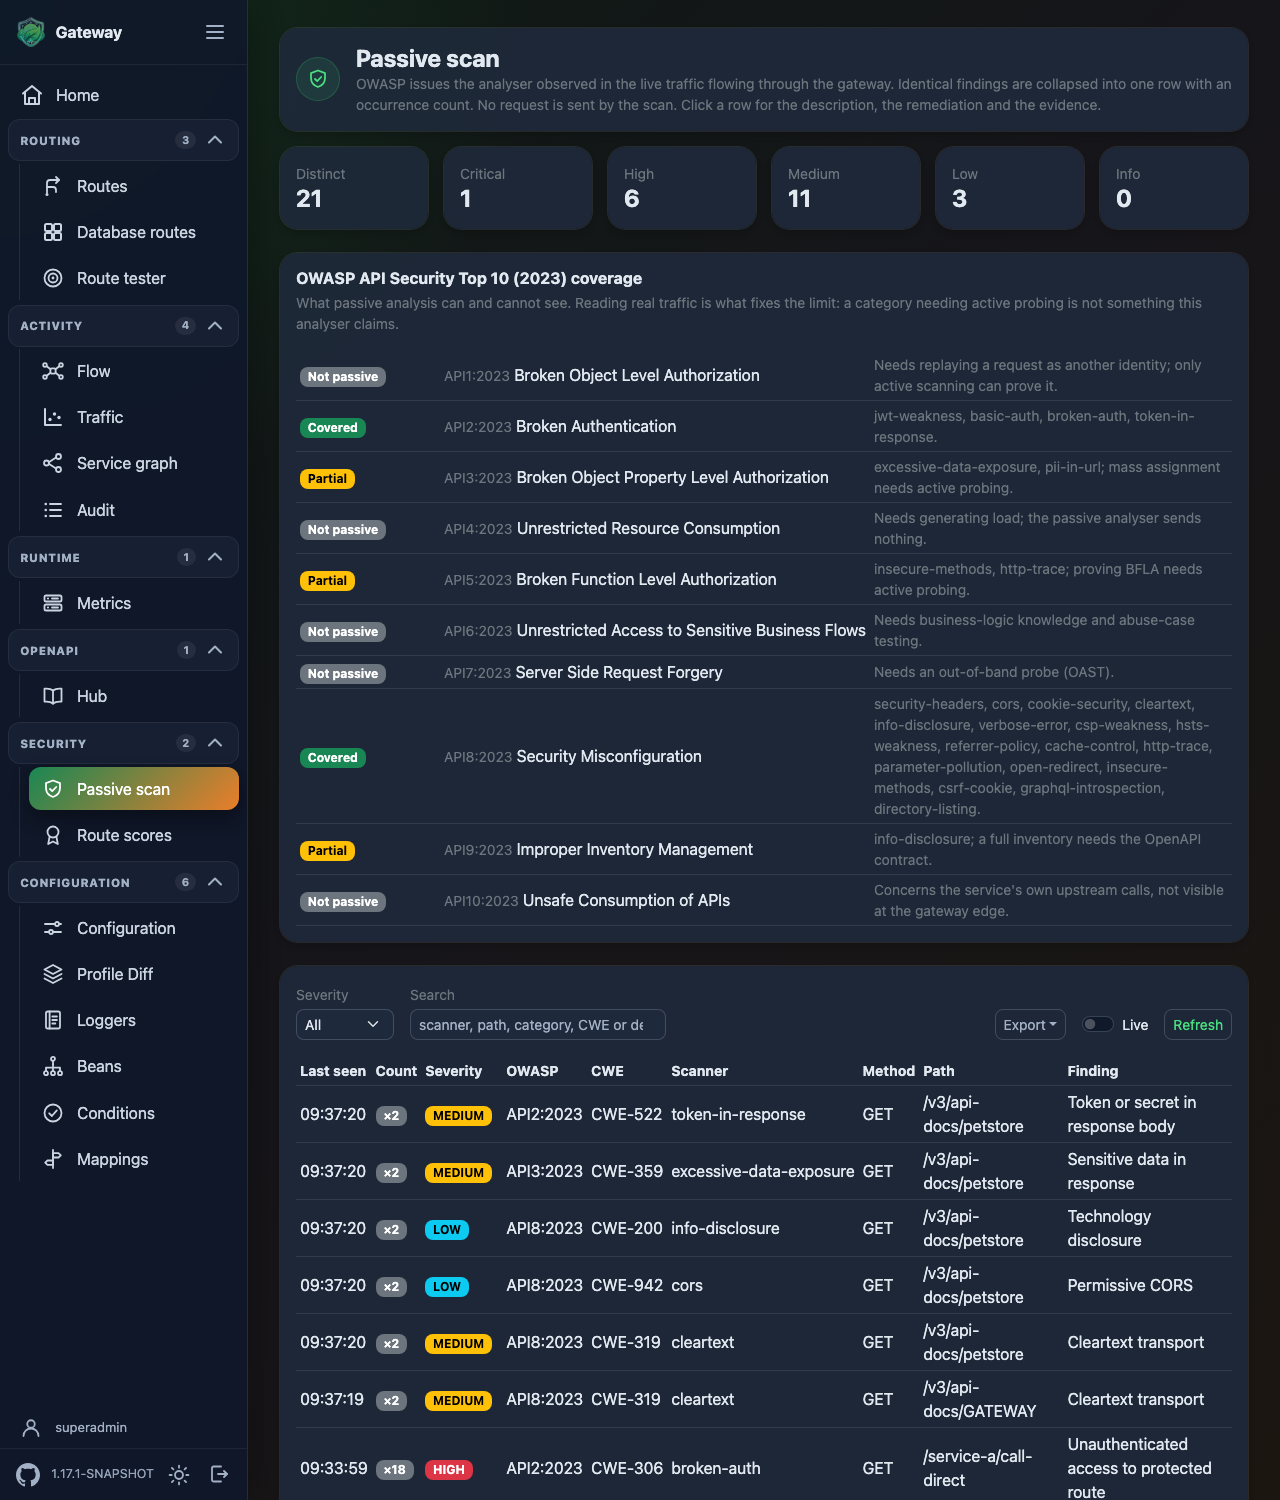
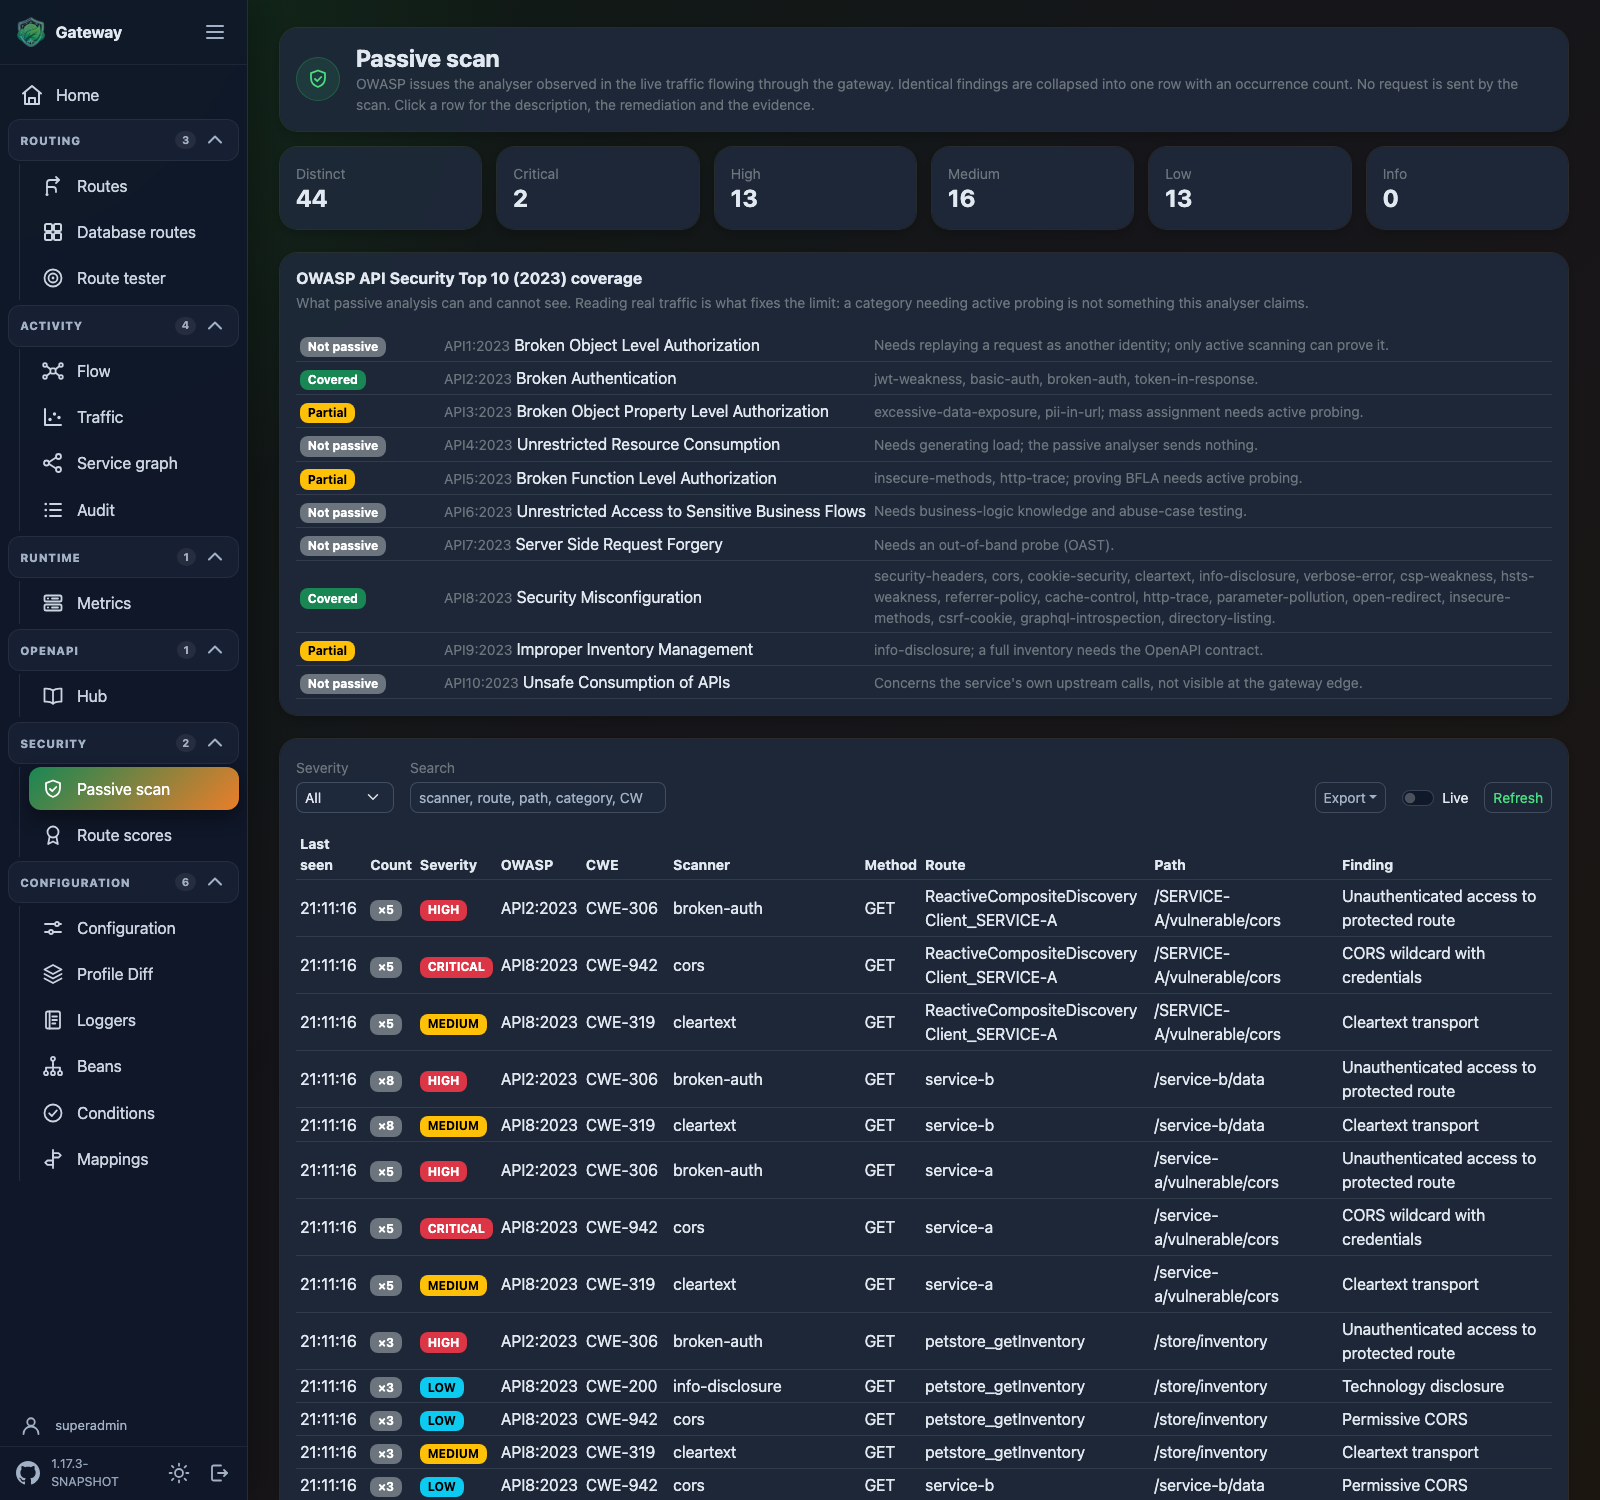
feat(ui): name the route a passive finding was raised on (#61)
The findings table gave the path and not the route, which is the column an
operator reads first: a path tells you where, a route tells you which
configuration to go and fix. The finding already carried the route id and the
JSON already served it -- only the view left it out. The search now matches it
too, so a route id typed into the filter finds its findings.

Showing it exposed that the aggregation could not tell two routes apart.
A finding names an endpoint rather than a request, so the path is reduced to
its template before being stored, and PathTemplate reads a segment of more
than 24 characters, or one carrying a digit and longer than 8, as a value.
On a gateway routing by service name those segments are the name:
/v3/api-docs/API-GATEWAY-INTERNAL-SERVICE and /v3/api-docs/CONFIGSERVER-3
both reduce to /v3/api-docs/{id}. Keyed on scanner, method, path and title,
three routes collapsed into one row whose route flipped from poll to poll,
and a search for one of them found nothing whenever another had been seen last.

The route id joins the signature. It costs nothing in cardinality -- it comes
from the gateway's own route table, never from the caller -- so the unbounded
keyspace the templating was there to prevent stays prevented. The Redis
merger and the in-memory store share the signature and follow; keyOf in the
view follows too, or two rows would share one expanded panel. Route scores
gain the same correction for free: a route whose findings collapsed into
[…]

diff --git a/spring-cloud-gateway-ui/src/main/resources/static/js/gateway-passive-scan.js b/spring-cloud-gateway-ui/src/main/resources/static/js/gateway-passive-scan.js
@@ -17,7 +17,7 @@
 	var LIMIT = 200;
 	var POLL_MS = 3000;
 	var SEVERITIES = ['CRITICAL', 'HIGH', 'MEDIUM', 'LOW', 'INFO'];
-	var COLSPAN = 9;
+	var COLSPAN = 10;
 	var pollTimer = null;
 	var expanded = {};
 
@@ -58,8 +58,10 @@
 		return td;
 	}
 
+	// The same fields the store groups on, so two routes reduced to the same path template
+	// keep an expanded panel of their own.
 	function keyOf(finding) {
-		return [finding.scanner, finding.method, finding.path, finding.title].join('|');
+		return [finding.scanner, finding.method, finding.routeId, finding.path, finding.title].join('|');
 	}
 
 	function section(parent, label, value) {
@@ -159,6 +161,7 @@
 			cell(row, finding.cwe, 'text-nowrap');
 			cell(row, finding.scanner, 'text-nowrap');
 			cell(row, finding.method);
+			cell(row, finding.routeId, 'text-break');
 			cell(row, finding.path, 'text-break');
 			cell(row, finding.title, 'text-break');
 

diff --git a/spring-cloud-gateway-ui/src/main/resources/templates/dashboard/passive-scan.html b/spring-cloud-gateway-ui/src/main/resources/templates/dashboard/passive-scan.html
@@ -58,7 +58,7 @@
 					<div>
 						<label class="form-label small text-secondary mb-1" for="ps-query">Search</label>
 						<input type="search" id="ps-query" class="form-control form-control-sm"
-								style="min-width: 16rem" placeholder="scanner, path, category, CWE or detail">
+								style="min-width: 16rem" placeholder="scanner, route, path, category, CWE or detail">
 					</div>
 					<div class="ms-auto d-flex align-items-center gap-3">
 						<div class="dropdown">
@@ -89,6 +89,7 @@
 								<th>CWE</th>
 								<th>Scanner</th>
 								<th>Method</th>
+								<th>Route</th>
 								<th>Path</th>
 								<th>Finding</th>
 							</tr>

diff --git a/spring-cloud-gateway-pentest/spring-cloud-gateway-pentest-core/src/test/java/ch/nexsol/gateway/pentest/core/store/InMemoryFindingStoreTests.java b/spring-cloud-gateway-pentest/spring-cloud-gateway-pentest-core/src/test/java/ch/nexsol/gateway/pentest/core/store/InMemoryFindingStoreTests.java
@@ -1,0 +1,74 @@
+/*
+ * Copyright 2025 the original author or authors.
+ *
+ * Licensed under the Apache License, Version 2.0 (the "License");
+ * you may not use this file except in compliance with the License.
+ * You may obtain a copy of the License at
+ *
+ *      https://www.apache.org/licenses/LICENSE-2.0
+ *
+ * Unless required by applicable law or agreed to in writing, software
+ * distributed under the License is distributed on an "AS IS" BASIS,
+ * WITHOUT WARRANTIES OR CONDITIONS OF ANY KIND, either express or implied.
+ * See the License for the specific language governing permissions and
+ * limitations under the License.
+ */
+
+package ch.nexsol.gateway.pentest.core.store;
+
+import java.time.Instant;
+import java.util.List;
+
+import ch.nexsol.gateway.pentest.core.model.AggregatedFinding;
+import ch.nexsol.gateway.pentest.core.model.Finding;
+import ch.nexsol.gateway.pentest.core.model.OwaspCategory;
+import ch.nexsol.gateway.pentest.core.model.PathTemplate;
+import ch.nexsol.gateway.pentest.core.model.Severity;
+import org.junit.jupiter.api.Test;
+
+import static org.assertj.core.api.Assertions.assertThat;
+
+class InMemoryFindingStoreTests {
+
+	private static Finding finding(String routeId, String path) {
+		return new Finding("cors", OwaspCategory.API8_SECURITY_MISCONFIGURATION, "CWE-942", Severity.LOW, "title",
+				"detail", "fix", "GET", PathTemplate.of(path), routeId, Instant.now(), null);
+	}
+
+	@Test
+	void theSameFindingSeenTwiceIsOneRowWithACount() {
+		InMemoryFindingStore store = new InMemoryFindingStore(100);
+		store.record(finding("route-a", "/a"));
+		store.record(finding("route-a", "/a"));
+
+		assertThat(store.recent()).hasSize(1);
+		assertThat(store.recent().get(0).count()).isEqualTo(2);
+	}
+
+	@Test
+	void twoRoutesReducedToTheSamePathTemplateStayApart() {
+		InMemoryFindingStore store = new InMemoryFindingStore(100);
+		// Both paths template to /v3/api-docs/{id}: the first segment is longer than the
+		// opaque length, the second carries a digit. Only the route tells them apart.
+		store.record(finding("openapi-API-GATEWAY-INTERNAL-SERVICE", "/v3/api-docs/API-GATEWAY-INTERNAL-SERVICE"));
+		store.record(finding("openapi-CONFIGSERVER-3", "/v3/api-docs/CONFIGSERVER-3"));
+
+		List<AggregatedFinding> recent = store.recent();
+		assertThat(recent).hasSize(2);
+		assertThat(recent)
+			.allSatisfy((aggregate) -> assertThat(aggregate.finding().path()).isEqualTo("/v3/api-docs/{id}"));
+		assertThat(recent).extracting((aggregate) -> aggregate.finding().routeId())
+			.containsExactlyInAnyOrder("openapi-API-GATEWAY-INTERNAL-SERVICE", "openapi-CONFIGSERVER-3");
+		assertThat(recent).allSatisfy((aggregate) -> assertThat(aggregate.count()).isEqualTo(1));
+	}
+
+	@Test
+	void anExchangeNoRouteHandledStaysApartFromARoutedOne() {
+		InMemoryFindingStore store = new InMemoryFindingStore(100);
+		store.record(finding(null, "/a"));
+		store.record(finding("route-a", "/a"));
+
+		assertThat(store.recent()).hasSize(2);
+	}
+
+}

diff --git a/spring-cloud-gateway-pentest/spring-cloud-gateway-pentest-core/src/main/java/ch/nexsol/gateway/pentest/core/model/AggregatedFinding.java b/spring-cloud-gateway-pentest/spring-cloud-gateway-pentest-core/src/main/java/ch/nexsol/gateway/pentest/core/model/AggregatedFinding.java
@@ -20,8 +20,8 @@ import java.time.Instant;
 
 /**
  * A distinct finding together with how many times it was observed. Identical findings
- * &mdash; same scanner, method, path and title &mdash; collapse into one of these rather
- * than filling the view with repeats.
+ * &mdash; same scanner, method, route, path and title &mdash; collapse into one of these
+ * rather than filling the view with repeats.
  *
  * @param finding the most recent occurrence, carrying the latest evidence
  * @param count how many times the finding was observed
@@ -31,14 +31,24 @@ import java.time.Instant;
 public record AggregatedFinding(Finding finding, long count, Instant firstSeen, Instant lastSeen) {
 
 	/**
-	 * The signature identifying a distinct finding: the same scanner, method, path and
-	 * title collapse into one aggregate. Shared so the in-memory store and any
+	 * The signature identifying a distinct finding: the same scanner, method, route, path
+	 * and title collapse into one aggregate. Shared so the in-memory store and any
 	 * consolidating store group findings the same way.
+	 * <p>
+	 * The route is in the key because the path alone does not identify the endpoint:
+	 * {@link PathTemplate} replaces the segments that look like a value, and on a gateway
+	 * routing by service name those segments are the name &mdash;
+	 * {@code /v3/api-docs/API-GATEWAY-INTERNAL-SERVICE} and
+	 * {@code /v3/api-docs/CONFIGSERVER-3} both reduce to {@code /v3/api-docs/{id}}. The
+	 * route id comes from the gateway's own route table, never from the caller, so adding
+	 * it keeps the number of keys bounded &mdash; which is what the templating was there
+	 * to guarantee.
 	 * @param finding the finding to key
 	 * @return the signature
 	 */
 	public static String signatureOf(Finding finding) {
-		return finding.scannerId() + ' ' + finding.method() + ' ' + finding.path() + ' ' + finding.title();
+		return finding.scannerId() + ' ' + finding.method() + ' ' + finding.routeId() + ' ' + finding.path() + ' '
+				+ finding.title();
 	}
 
 }

diff --git a/spring-cloud-gateway-pentest/spring-cloud-gateway-pentest-redis/src/test/java/ch/nexsol/gateway/pentest/redis/FindingMergerTests.java b/spring-cloud-gateway-pentest/spring-cloud-gateway-pentest-redis/src/test/java/ch/nexsol/gateway/pentest/redis/FindingMergerTests.java
@@ -30,8 +30,12 @@ import static org.assertj.core.api.Assertions.assertThat;
 class FindingMergerTests {
 
 	private static Finding finding(String path) {
+		return finding("route", path);
+	}
+
+	private static Finding finding(String routeId, String path) {
 		return new Finding("cors", OwaspCategory.API8_SECURITY_MISCONFIGURATION, "CWE-942", Severity.CRITICAL, "title",
-				"detail", "fix", "GET", path, "route", Instant.now(), null);
+				"detail", "fix", "GET", path, routeId, Instant.now(), null);
 	}
 
 	@Test
@@ -64,6 +68,18 @@ class FindingMergerTests {
 			.merge(List.of(new AggregatedFinding(finding("/a"), 1, Instant.now(), Instant.now()),
 					new AggregatedFinding(finding("/b"), 1, Instant.now(), Instant.now())), 10);
 		assertThat(FindingMerger.summarise(merged).total()).isEqualTo(2);
+	}
+
+	@Test
+	void twoRoutesOnTheSamePathAreNotMergedTogether() {
+		Instant now = Instant.now();
+		List<AggregatedFinding> merged = FindingMerger
+			.merge(List.of(new AggregatedFinding(finding("route-a", "/v3/api-docs/{id}"), 3, now, now),
+					new AggregatedFinding(finding("route-b", "/v3/api-docs/{id}"), 2, now, now)), 10);
+
+		assertThat(merged).hasSize(2);
+		assertThat(merged).extracting((aggregate) -> aggregate.finding().routeId())
+			.containsExactlyInAnyOrder("route-a", "route-b");
 	}
 
 	@Test

diff --git a/spring-cloud-gateway-ui/src/test/java/ch/nexsol/gateway/ui/passivescan/PassiveScanViewControllerTests.java b/spring-cloud-gateway-ui/src/test/java/ch/nexsol/gateway/ui/passivescan/PassiveScanViewControllerTests.java
@@ -71,6 +71,36 @@ class PassiveScanViewControllerTests {
 	}
 
 	@Test
+	void findsByRouteId() {
+		InMemoryFindingStore store = new InMemoryFindingStore(100);
+		store.record(finding(Severity.CRITICAL));
+		client(store).get()
+			.uri("/ui/passive-scan/findings?query=route-x")
+			.exchange()
+			.expectStatus()
+			.isOk()
+			.expectBody()
+			.jsonPath("$.length()")
+			.isEqualTo(1)
+			.jsonPath("$[0].routeId")
+			.isEqualTo("route-x");
+	}
+
+	@Test
+	void ignoresAQueryMatchingNoRoute() {
+		InMemoryFindingStore store = new InMemoryFindingStore(100);
+		store.record(finding(Severity.CRITICAL));
+		client(store).get()
+			.uri("/ui/passive-scan/findings?query=route-y")
+			.exchange()
+			.expectStatus()
+			.isOk()
+			.expectBody()
+			.jsonPath("$.length()")
+			.isEqualTo(0);
+	}
+
+	@Test
 	void filtersBySeverity() {
 		InMemoryFindingStore store = new InMemoryFindingStore(100);
 		store.record(finding(Severity.CRITICAL));

diff --git a/spring-cloud-gateway-ui/src/main/java/ch/nexsol/gateway/ui/passivescan/PassiveScanViewController.java b/spring-cloud-gateway-ui/src/main/java/ch/nexsol/gateway/ui/passivescan/PassiveScanViewController.java
@@ -109,8 +109,9 @@ public class PassiveScanViewController {
 			return true;
 		}
 		return contains(finding.scannerId(), needle) || contains(finding.title(), needle)
-				|| contains(finding.path(), needle) || contains(finding.detail(), needle)
-				|| contains(finding.category().getCode(), needle) || contains(finding.cwe(), needle);
+				|| contains(finding.path(), needle) || contains(finding.routeId(), needle)
+				|| contains(finding.detail(), needle) || contains(finding.category().getCode(), needle)
+				|| contains(finding.cwe(), needle);
 	}
 
 	private static boolean contains(String value, String needle) {

diff --git a/spring-cloud-gateway-pentest/spring-cloud-gateway-pentest-core/src/main/java/ch/nexsol/gateway/pentest/core/store/InMemoryFindingStore.java b/spring-cloud-gateway-pentest/spring-cloud-gateway-pentest-core/src/main/java/ch/nexsol/gateway/pentest/core/store/InMemoryFindingStore.java
@@ -32,8 +32,8 @@ import ch.nexsol.gateway.pentest.core.model.Severity;
 
 /**
  * In-memory {@link FindingStore} keeping one {@link AggregatedFinding} per distinct
- * finding &mdash; keyed by scanner, method, path and title &mdash; in a bounded map
- * ordered by when each was last seen. A repeated finding bumps the count and the
+ * finding &mdash; keyed by scanner, method, route, path and title &mdash; in a bounded
+ * map ordered by when each was last seen. A repeated finding bumps the count and the
  * last-seen time instead of adding a row, so a chatty scanner cannot flood the view or
  * the memory.
  */

diff --git a/spring-cloud-gateway-pentest/spring-cloud-gateway-pentest-passive/README.md b/spring-cloud-gateway-pentest/spring-cloud-gateway-pentest-passive/README.md
@@ -76,15 +76,23 @@ leave it off and restart the day you need it.
 ## What it scans
 
 Findings map to the OWASP API Security Top 10 and carry a CWE, a description and a
-remediation. Identical findings collapse into one, with an occurrence count. Most scanners
-read metadata only and are always active; the two body-aware ones run only when
-`body.enabled` is `true`.
+remediation. Identical findings — same scanner, method, route, path and title — collapse
+into one, with an occurrence count. Most scanners read metadata only and are always active;
+the two body-aware ones run only when `body.enabled` is `true`.
 
 A finding names the endpoint, not the request: the path is reduced to its template before
 being stored, so `/users/ann@acme.com/invoices` is recorded as `/users/{id}/invoices`.
 Whatever a caller puts in a path — an address, a card number, a reset token — therefore
 never reaches the store, the export or Redis, and a caller cannot create an unbounded
 number of distinct findings by varying the path.
+
+The route is part of what makes a finding distinct because the template alone does not
+identify the endpoint. A segment longer than 24 characters, or carrying a digit and longer
+than 8, is read as a value — which is what a service name looks like on a gateway routing
+by service name: `/v3/api-docs/API-GATEWAY-INTERNAL-SERVICE` and
+`/v3/api-docs/CONFIGSERVER-3` both reduce to `/v3/api-docs/{id}`. Keying on the route as
+well keeps them apart, and costs nothing in cardinality: a route id comes from the
+gateway's own route table, never from the caller.
 
 | Scanner | CWE | Looks for |
 | --- | --- | --- |

diff --git a/spring-cloud-gateway-ui/README.md b/spring-cloud-gateway-ui/README.md
@@ -596,12 +596,12 @@ found in the live traffic, grouped under **Security** in the menu.
 ![The passive scan view](doc/passive-scan-light.png)
 
 **Passive scan** lists the findings, collapsed to one row per distinct problem with an
-occurrence count, newest first: severity, OWASP API category, CWE, scanner, method, path and
-title. A row expands into the rule id and confidence, the description, the remediation, a link
-to the reference and the evidence the scanner recorded. Filter by severity and search across
-scanner, title, path, category, CWE and description; the **Live** switch polls every 3 seconds.
-Above the table, a matrix shows which of the OWASP API Top 10 categories passive analysis can
-and cannot reach.
+occurrence count, newest first: severity, OWASP API category, CWE, scanner, method, route, path
+and title. A row expands into the rule id and confidence, the description, the remediation, a
+link to the reference and the evidence the scanner recorded. Filter by severity and search
+across scanner, title, route, path, category, CWE and description; the **Live** switch polls
+every 3 seconds. Above the table, a matrix shows which of the OWASP API Top 10 categories
+passive analysis can and cannot reach.
 
 ![The route scores view](doc/passive-scan-routes-light.png)
 
